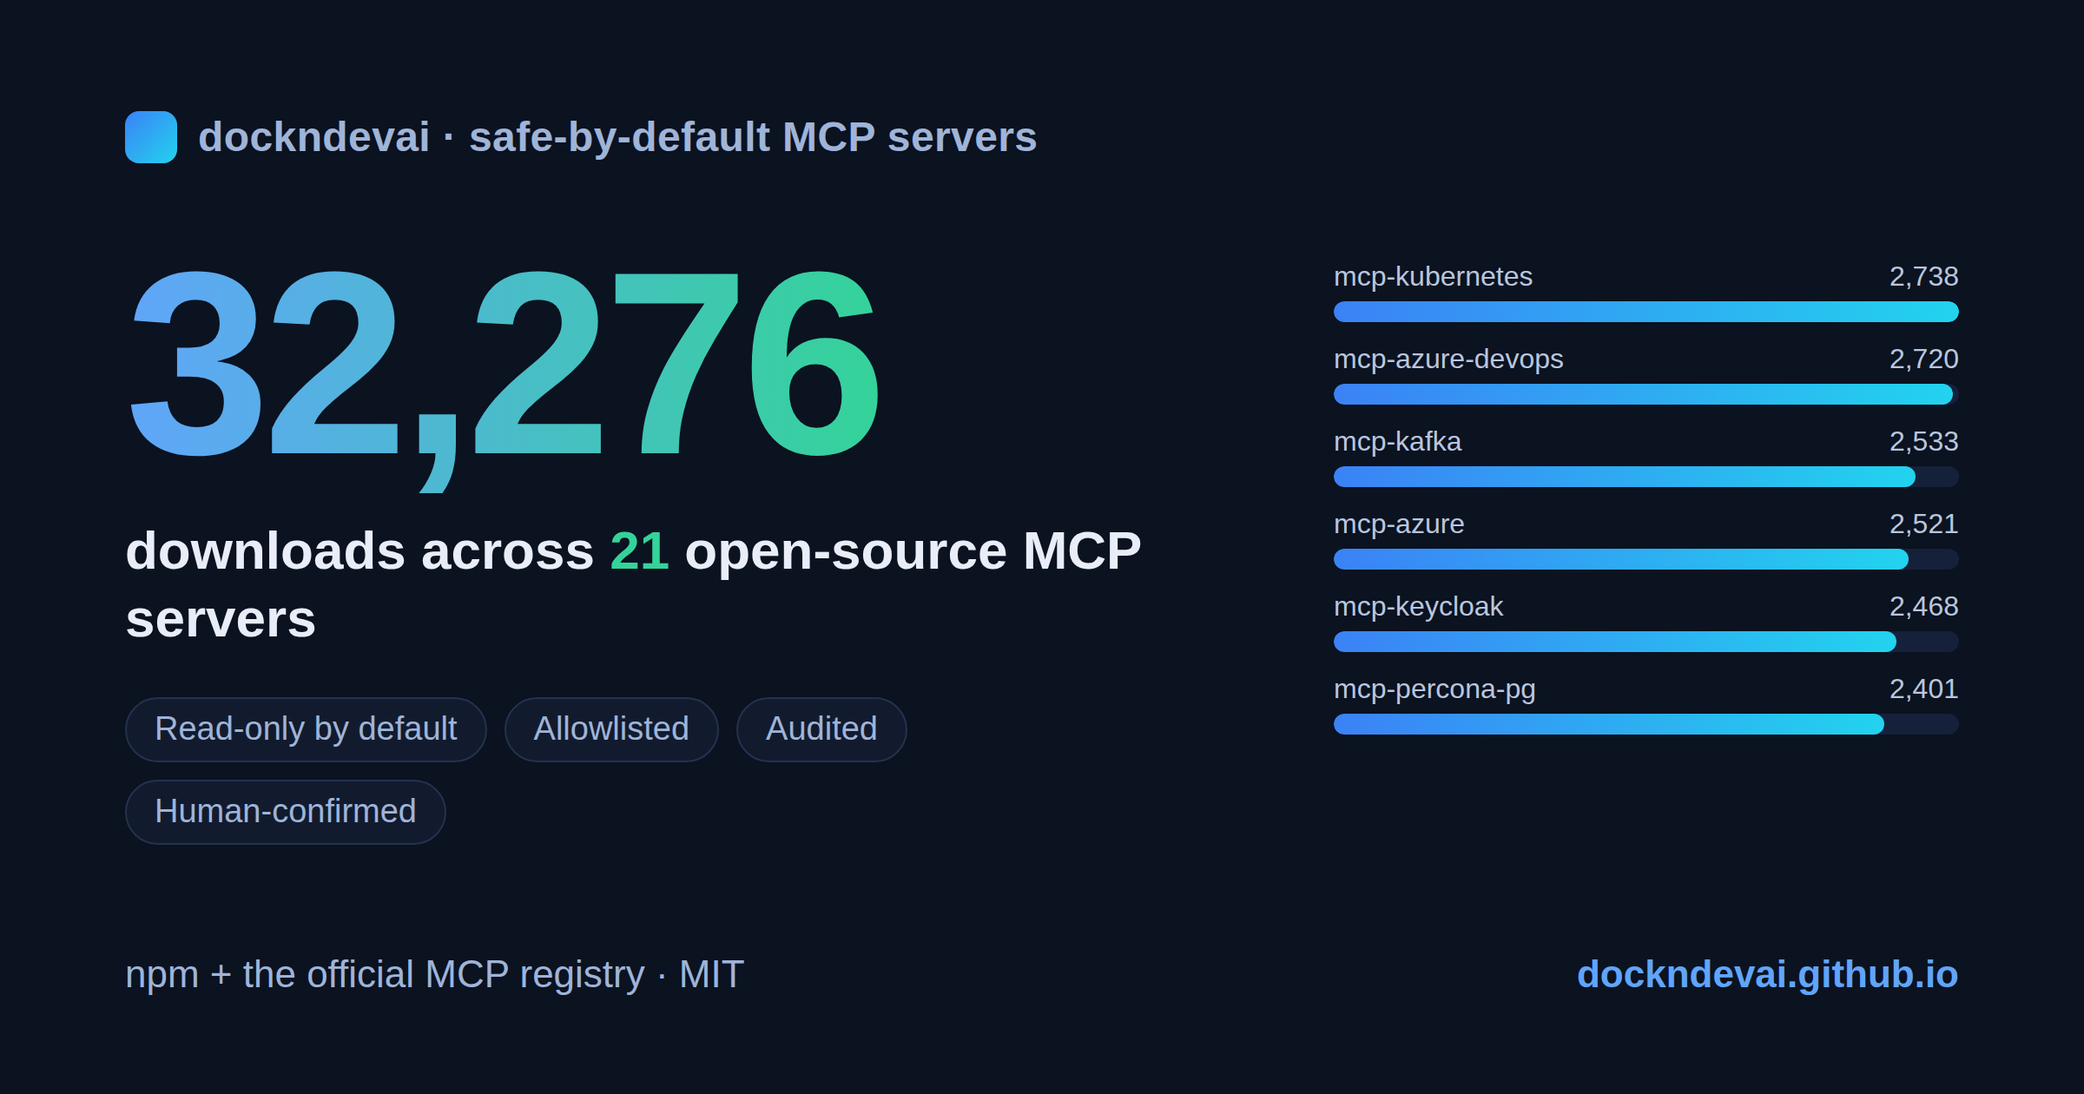
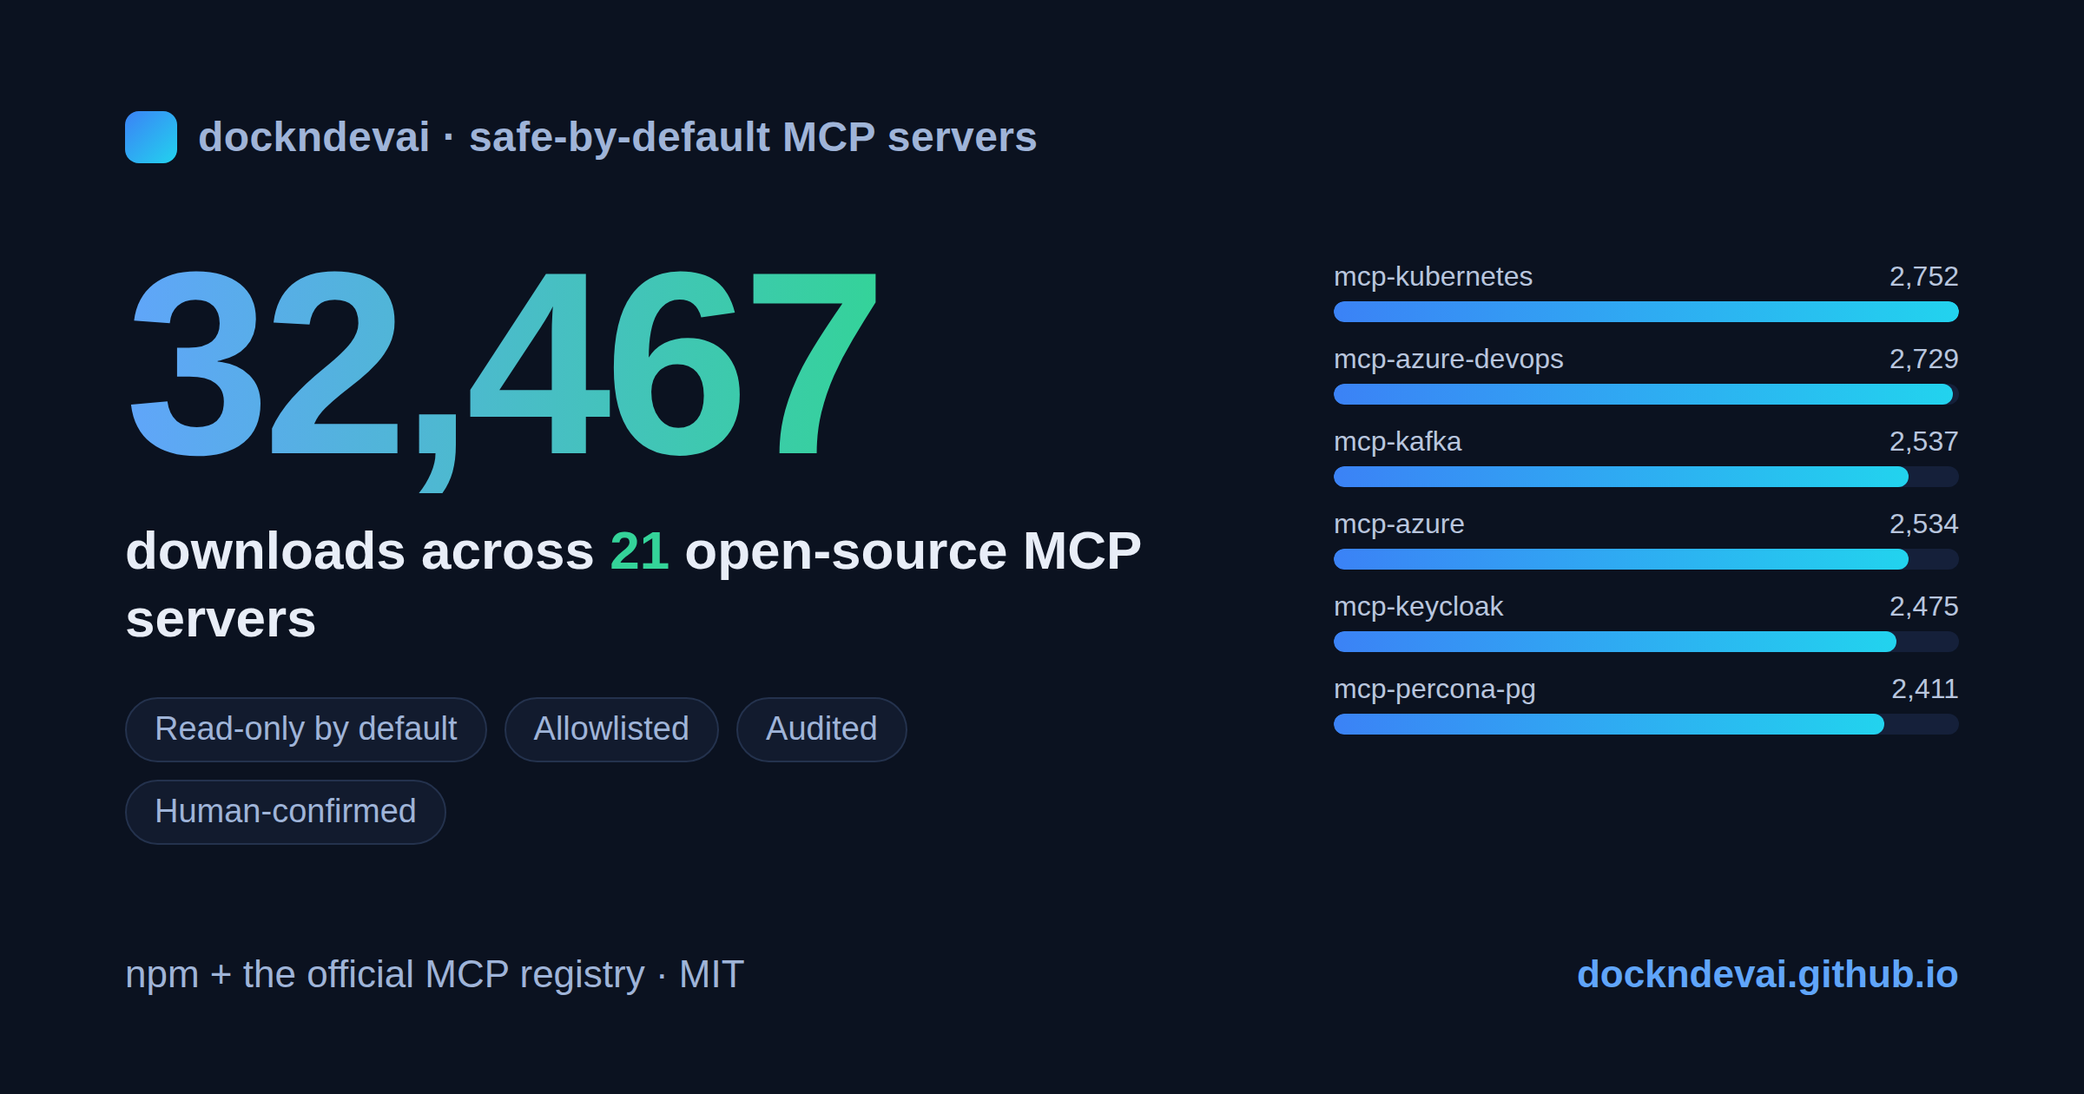
chore: refresh server list + downloads card from live data

Changed region(s): [[0.2188, 0.2476, 0.4375, 0.4333], [0.9062, 0.619, 0.9375, 0.65], [0.9062, 0.4643, 0.9375, 0.4952]]

diff --git a/index.html b/index.html
@@ -509,70 +509,70 @@
           <article class="srv" id="p-mcp-kubernetes">
             <div class="top"><h3><a href="https://github.com/dockndevai/mcp-kubernetes">mcp-kubernetes</a></h3><span class="tag k">TypeScript</span></div>
             <p>MCP server for Kubernetes — multi-cluster ops with security modes (read-only/read-write/admin) and access-control flags.</p>
-            <div class="meta"><span class="stat" title="GitHub stars">&#9733; 3</span><span class="stat" title="npm downloads, last 30 days">&#8595; 713/mo</span></div>
+            <div class="meta"><span class="stat" title="GitHub stars">&#9733; 3</span><span class="stat" title="npm downloads, last 30 days">&#8595; 714/mo</span></div>
             <div class="install"><code>npx -y @dockndevai/mcp-kubernetes</code><button class="copy" data-cmd="npx -y @dockndevai/mcp-kubernetes">Copy</button></div>
             <div class="links"><a href="https://github.com/dockndevai/mcp-kubernetes">GitHub</a><a href="https://www.npmjs.com/package/@dockndevai/mcp-kubernetes">npm</a></div>
           </article>
           <article class="srv" id="p-mcp-azure-devops">
             <div class="top"><h3><a href="https://github.com/dockndevai/mcp-azure-devops">mcp-azure-devops</a></h3><span class="tag k">TypeScript</span></div>
             <p>MCP server for Azure DevOps — boards, repos, pipelines, projects — with governance controls (access modes, project scoping, protected projects, delete gating, typed confirmation).</p>
-            <div class="meta"><span class="stat" title="GitHub stars">&#9733; 1</span><span class="stat" title="npm downloads, last 30 days">&#8595; 652/mo</span></div>
+            <div class="meta"><span class="stat" title="GitHub stars">&#9733; 1</span><span class="stat" title="npm downloads, last 30 days">&#8595; 657/mo</span></div>
             <div class="install"><code>npx -y @dockndevai/mcp-azure-devops</code><button class="copy" data-cmd="npx -y @dockndevai/mcp-azure-devops">Copy</button></div>
             <div class="links"><a href="https://github.com/dockndevai/mcp-azure-devops">GitHub</a><a href="https://www.npmjs.com/package/@dockndevai/mcp-azure-devops">npm</a></div>
           </article>
           <article class="srv" id="p-mcp-kafka">
             <div class="top"><h3><a href="https://github.com/dockndevai/mcp-kafka">mcp-kafka</a></h3><span class="tag k">TypeScript</span></div>
             <p>MCP server for Apache Kafka — monitor &amp; manage clusters, topics, and consumer groups (with lag), with security modes and access-control flags.</p>
-            <div class="meta"><span class="stat" title="GitHub stars">&#9733; 2</span><span class="stat" title="npm downloads, last 30 days">&#8595; 630/mo</span></div>
+            <div class="meta"><span class="stat" title="GitHub stars">&#9733; 2</span><span class="stat" title="npm downloads, last 30 days">&#8595; 623/mo</span></div>
             <div class="install"><code>npx -y @dockndevai/mcp-kafka</code><button class="copy" data-cmd="npx -y @dockndevai/mcp-kafka">Copy</button></div>
             <div class="links"><a href="https://github.com/dockndevai/mcp-kafka">GitHub</a><a href="https://www.npmjs.com/package/@dockndevai/mcp-kafka">npm</a></div>
           </article>
           <article class="srv" id="p-mcp-azure">
             <div class="top"><h3><a href="https://github.com/dockndevai/mcp-azure">mcp-azure</a></h3><span class="tag k">TypeScript</span></div>
             <p>MCP server for Azure (Resource Manager) — inventory, tags, VM power, lifecycle — with governance controls (scoping, protected groups, location allowlist, delete gating, confirmation).</p>
-            <div class="meta"><span class="stat" title="GitHub stars">&#9733; 1</span><span class="stat" title="npm downloads, last 30 days">&#8595; 368/mo</span></div>
+            <div class="meta"><span class="stat" title="GitHub stars">&#9733; 1</span><span class="stat" title="npm downloads, last 30 days">&#8595; 375/mo</span></div>
             <div class="install"><code>npx -y @dockndevai/mcp-azure</code><button class="copy" data-cmd="npx -y @dockndevai/mcp-azure">Copy</button></div>
             <div class="links"><a href="https://github.com/dockndevai/mcp-azure">GitHub</a><a href="https://www.npmjs.com/package/@dockndevai/mcp-azure">npm</a></div>
           </article>
           <article class="srv" id="p-mcp-keycloak">
             <div class="top"><h3><a href="https://github.com/dockndevai/mcp-keycloak">mcp-keycloak</a></h3><span class="tag k">TypeScript</span></div>
             <p>MCP server for Keycloak — multi-realm admin with security modes (read-only/read-write/admin) and access-control flags.</p>
-            <div class="meta"><span class="stat" title="GitHub stars">&#9733; 1</span><span class="stat" title="npm downloads, last 30 days">&#8595; 586/mo</span></div>
+            <div class="meta"><span class="stat" title="GitHub stars">&#9733; 1</span><span class="stat" title="npm downloads, last 30 days">&#8595; 589/mo</span></div>
             <div class="install"><code>npx -y @dockndevai/mcp-keycloak</code><button class="copy" data-cmd="npx -y @dockndevai/mcp-keycloak">Copy</button></div>
             <div class="links"><a href="https://github.com/dockndevai/mcp-keycloak">GitHub</a><a href="https://www.npmjs.com/package/@dockndevai/mcp-keycloak">npm</a></div>
           </article>
           <article class="srv" id="p-mcp-percona-pg">
             <div class="top"><h3><a href="https://github.com/dockndevai/mcp-percona-pg">mcp-percona-pg</a></h3><span class="tag k">TypeScript</span></div>
             <p>MCP server for the Percona Operator for PostgreSQL — manage PostgreSQL + PgBouncer, pooling, backups/PITR, and DR with safe-by-default security flags.</p>
-            <div class="meta"><span class="stat" title="GitHub stars">&#9733; 1</span><span class="stat" title="npm downloads, last 30 days">&#8595; 627/mo</span></div>
+            <div class="meta"><span class="stat" title="GitHub stars">&#9733; 1</span><span class="stat" title="npm downloads, last 30 days">&#8595; 631/mo</span></div>
             <div class="install"><code>npx -y @dockndevai/mcp-percona-pg</code><button class="copy" data-cmd="npx -y @dockndevai/mcp-percona-pg">Copy</button></div>
             <div class="links"><a href="https://github.com/dockndevai/mcp-percona-pg">GitHub</a><a href="https://www.npmjs.com/package/@dockndevai/mcp-percona-pg">npm</a></div>
           </article>
           <article class="srv" id="p-mcp-clickhouse">
             <div class="top"><h3><a href="https://github.com/dockndevai/mcp-clickhouse">mcp-clickhouse</a></h3><span class="tag k">TypeScript</span></div>
             <p>MCP server for ClickHouse — explore, query, and manage with SQL-classification-based security modes and access-control flags.</p>
-            <div class="meta"><span class="stat" title="GitHub stars">&#9733; 3</span><span class="stat" title="npm downloads, last 30 days">&#8595; 395/mo</span></div>
+            <div class="meta"><span class="stat" title="GitHub stars">&#9733; 3</span><span class="stat" title="npm downloads, last 30 days">&#8595; 388/mo</span></div>
             <div class="install"><code>npx -y @dockndevai/mcp-clickhouse</code><button class="copy" data-cmd="npx -y @dockndevai/mcp-clickhouse">Copy</button></div>
             <div class="links"><a href="https://github.com/dockndevai/mcp-clickhouse">GitHub</a><a href="https://www.npmjs.com/package/@dockndevai/mcp-clickhouse">npm</a></div>
           </article>
           <article class="srv" id="p-mcp-debezium">
             <div class="top"><h3><a href="https://github.com/dockndevai/mcp-debezium">mcp-debezium</a></h3><span class="tag k">TypeScript</span></div>
             <p>MCP server for Debezium / Kafka Connect — monitor &amp; manage CDC connectors with security modes and access-control flags.</p>
-            <div class="meta"><span class="stat" title="GitHub stars">&#9733; 1</span><span class="stat" title="npm downloads, last 30 days">&#8595; 327/mo</span></div>
+            <div class="meta"><span class="stat" title="GitHub stars">&#9733; 1</span><span class="stat" title="npm downloads, last 30 days">&#8595; 336/mo</span></div>
             <div class="install"><code>npx -y @dockndevai/mcp-debezium</code><button class="copy" data-cmd="npx -y @dockndevai/mcp-debezium">Copy</button></div>
             <div class="links"><a href="https://github.com/dockndevai/mcp-debezium">GitHub</a><a href="https://www.npmjs.com/package/@dockndevai/mcp-debezium">npm</a></div>
           </article>
           <article class="srv" id="p-mcp-grafana">
             <div class="top"><h3><a href="https://github.com/dockndevai/mcp-grafana">mcp-grafana</a></h3><span class="tag k">TypeScript</span></div>
             <p>MCP server for Grafana — search &amp; edit dashboards, query datasources (Prometheus/Loki/SQL), inspect alerts, with safe-by-default access modes.</p>
-            <div class="meta"><span class="stat" title="GitHub stars">&#9733; 1</span><span class="stat" title="npm downloads, last 30 days">&#8595; 565/mo</span></div>
+            <div class="meta"><span class="stat" title="GitHub stars">&#9733; 1</span><span class="stat" title="npm downloads, last 30 days">&#8595; 561/mo</span></div>
             <div class="install"><code>npx -y @dockndevai/mcp-grafana</code><button class="copy" data-cmd="npx -y @dockndevai/mcp-grafana">Copy</button></div>
             <div class="links"><a href="https://github.com/dockndevai/mcp-grafana">GitHub</a><a href="https://www.npmjs.com/package/@dockndevai/mcp-grafana">npm</a></div>
           </article>
           <article class="srv" id="p-mcp-oci">
             <div class="top"><h3><a href="https://github.com/dockndevai/mcp-oci">mcp-oci</a></h3><span class="tag k">TypeScript</span></div>
             <p>MCP server for Oracle Cloud (OCI) — live resource discovery, dependency mapping, and Terraform generation, with security modes and access-control flags.</p>
-            <div class="meta"><span class="stat" title="GitHub stars">&#9733; 1</span><span class="stat" title="npm downloads, last 30 days">&#8595; 350/mo</span></div>
+            <div class="meta"><span class="stat" title="GitHub stars">&#9733; 1</span><span class="stat" title="npm downloads, last 30 days">&#8595; 366/mo</span></div>
             <div class="install"><code>npx -y @dockndevai/mcp-oci</code><button class="copy" data-cmd="npx -y @dockndevai/mcp-oci">Copy</button></div>
             <div class="links"><a href="https://github.com/dockndevai/mcp-oci">GitHub</a><a href="https://www.npmjs.com/package/@dockndevai/mcp-oci">npm</a></div>
           </article>
@@ -586,63 +586,63 @@
           <article class="srv" id="p-ossian-mcp">
             <div class="top"><h3><a href="https://github.com/dockndevai/ossian-mcp">ossian-mcp</a></h3><span class="tag k">TypeScript</span></div>
             <p>MCP server for Ossian — ask your own documents with citations, and give an agent memory that persists</p>
-            <div class="meta"><span class="stat" title="GitHub stars">&#9733; 2</span><span class="stat" title="npm downloads, last 30 days">&#8595; 224/mo</span></div>
+            <div class="meta"><span class="stat" title="GitHub stars">&#9733; 2</span><span class="stat" title="npm downloads, last 30 days">&#8595; 230/mo</span></div>
             <div class="install"><code>npx -y ossian-mcp</code><button class="copy" data-cmd="npx -y ossian-mcp">Copy</button></div>
             <div class="links"><a href="https://github.com/dockndevai/ossian-mcp">GitHub</a><a href="https://www.npmjs.com/package/ossian-mcp">npm</a></div>
           </article>
           <article class="srv" id="p-mcp-cdp">
             <div class="top"><h3><a href="https://github.com/dockndevai/mcp-cdp">mcp-cdp</a></h3><span class="tag k">TypeScript</span></div>
             <p>Model Context Protocol server that drives an Electron/Chrome app over the DevTools Protocol (CDP) — DOM, console, network, click/type/navigate and gated JS eval — safe by default, cross-OS.</p>
-            <div class="meta"><span class="stat" title="GitHub stars">&#9733; 1</span><span class="stat" title="npm downloads, last 30 days">&#8595; 536/mo</span></div>
+            <div class="meta"><span class="stat" title="GitHub stars">&#9733; 1</span><span class="stat" title="npm downloads, last 30 days">&#8595; 541/mo</span></div>
             <div class="install"><code>npx -y @dockndevai/mcp-cdp</code><button class="copy" data-cmd="npx -y @dockndevai/mcp-cdp">Copy</button></div>
             <div class="links"><a href="https://github.com/dockndevai/mcp-cdp">GitHub</a><a href="https://www.npmjs.com/package/@dockndevai/mcp-cdp">npm</a></div>
           </article>
           <article class="srv" id="p-mcp-mac-control">
             <div class="top"><h3><a href="https://github.com/dockndevai/mcp-mac-control">mcp-mac-control</a></h3><span class="tag k">TypeScript</span></div>
             <p>Full macOS control MCP server — drive a Mac like a human: shell, AppleScript, files, processes, and human-like GUI (click, drag, scroll, type). Full control by default; opt-in safe mode.</p>
-            <div class="meta"><span class="stat" title="GitHub stars">&#9733; 0</span><span class="stat" title="npm downloads, last 30 days">&#8595; 166/mo</span></div>
+            <div class="meta"><span class="stat" title="GitHub stars">&#9733; 0</span><span class="stat" title="npm downloads, last 30 days">&#8595; 170/mo</span></div>
             <div class="install"><code>npx -y @dockndevai/mcp-mac-control</code><button class="copy" data-cmd="npx -y @dockndevai/mcp-mac-control">Copy</button></div>
             <div class="links"><a href="https://github.com/dockndevai/mcp-mac-control">GitHub</a><a href="https://www.npmjs.com/package/@dockndevai/mcp-mac-control">npm</a></div>
           </article>
           <article class="srv" id="p-mcp-macos">
             <div class="top"><h3><a href="https://github.com/dockndevai/mcp-macos">mcp-macos</a></h3><span class="tag k">TypeScript</span></div>
             <p>Safe-by-default MCP server to observe &amp; operate a Mac — files, processes, apps, shell, AppleScript, GUI.</p>
-            <div class="meta"><span class="stat" title="GitHub stars">&#9733; 0</span><span class="stat" title="npm downloads, last 30 days">&#8595; 193/mo</span></div>
+            <div class="meta"><span class="stat" title="GitHub stars">&#9733; 0</span><span class="stat" title="npm downloads, last 30 days">&#8595; 187/mo</span></div>
             <div class="install"><code>npx -y @dockndevai/mcp-macos</code><button class="copy" data-cmd="npx -y @dockndevai/mcp-macos">Copy</button></div>
             <div class="links"><a href="https://github.com/dockndevai/mcp-macos">GitHub</a><a href="https://www.npmjs.com/package/@dockndevai/mcp-macos">npm</a></div>
           </article>
           <article class="srv" id="p-mcp-teams">
             <div class="top"><h3><a href="https://github.com/dockndevai/mcp-teams">mcp-teams</a></h3><span class="tag k">TypeScript</span></div>
             <p>Safe-by-default MCP server for Microsoft Teams (Microsoft Graph) — read teams, channels, chats and messages, and post/reply/send, with browser sign-in.</p>
-            <div class="meta"><span class="stat" title="GitHub stars">&#9733; 0</span><span class="stat" title="npm downloads, last 30 days">&#8595; 252/mo</span></div>
+            <div class="meta"><span class="stat" title="GitHub stars">&#9733; 0</span><span class="stat" title="npm downloads, last 30 days">&#8595; 261/mo</span></div>
             <div class="install"><code>npx -y @dockndevai/mcp-teams</code><button class="copy" data-cmd="npx -y @dockndevai/mcp-teams">Copy</button></div>
             <div class="links"><a href="https://github.com/dockndevai/mcp-teams">GitHub</a><a href="https://www.npmjs.com/package/@dockndevai/mcp-teams">npm</a></div>
           </article>
           <article class="srv" id="p-mcp-openshift">
             <div class="top"><h3><a href="https://github.com/dockndevai/mcp-openshift">mcp-openshift</a></h3><span class="tag k">TypeScript</span></div>
             <p>Safe-by-default MCP server for OpenShift / Kubernetes — projects, pods, logs, deployments, routes and more, with username/password (local IdP) or token auth.</p>
-            <div class="meta"><span class="stat" title="GitHub stars">&#9733; 0</span><span class="stat" title="npm downloads, last 30 days">&#8595; 168/mo</span></div>
+            <div class="meta"><span class="stat" title="GitHub stars">&#9733; 0</span><span class="stat" title="npm downloads, last 30 days">&#8595; 167/mo</span></div>
             <div class="install"><code>npx -y @dockndevai/mcp-openshift</code><button class="copy" data-cmd="npx -y @dockndevai/mcp-openshift">Copy</button></div>
             <div class="links"><a href="https://github.com/dockndevai/mcp-openshift">GitHub</a><a href="https://www.npmjs.com/package/@dockndevai/mcp-openshift">npm</a></div>
           </article>
           <article class="srv" id="p-mcp-github-enterprise">
             <div class="top"><h3><a href="https://github.com/dockndevai/mcp-github-enterprise">mcp-github-enterprise</a></h3><span class="tag k">TypeScript</span></div>
             <p>Safe-by-default MCP server for GitHub Enterprise — orgs, repos, teams, rulesets, security alerts &amp; Actions, with a security-posture baseline and governance controls (read-only by default, org-scoped, audited, human-confirmed).</p>
-            <div class="meta"><span class="stat" title="GitHub stars">&#9733; 0</span><span class="stat" title="npm downloads, last 30 days">&#8595; 624/mo</span></div>
+            <div class="meta"><span class="stat" title="GitHub stars">&#9733; 0</span><span class="stat" title="npm downloads, last 30 days">&#8595; 630/mo</span></div>
             <div class="install"><code>npx -y @dockndevai/mcp-github-enterprise</code><button class="copy" data-cmd="npx -y @dockndevai/mcp-github-enterprise">Copy</button></div>
             <div class="links"><a href="https://github.com/dockndevai/mcp-github-enterprise">GitHub</a><a href="https://www.npmjs.com/package/@dockndevai/mcp-github-enterprise">npm</a></div>
           </article>
           <article class="srv" id="p-mcp-android">
             <div class="top"><h3><a href="https://github.com/dockndevai/mcp-android">mcp-android</a></h3><span class="tag k">TypeScript</span></div>
             <p>MCP server to control an Android device over ADB — screenshots, taps, typing, app launch, alarms, notifications — safe-by-default with access modes and gated destructive ops.</p>
-            <div class="meta"><span class="stat" title="GitHub stars">&#9733; 0</span><span class="stat" title="npm downloads, last 30 days">&#8595; 221/mo</span></div>
+            <div class="meta"><span class="stat" title="GitHub stars">&#9733; 0</span><span class="stat" title="npm downloads, last 30 days">&#8595; 218/mo</span></div>
             <div class="install"><code>npx -y @dockndevai/mcp-android</code><button class="copy" data-cmd="npx -y @dockndevai/mcp-android">Copy</button></div>
             <div class="links"><a href="https://github.com/dockndevai/mcp-android">GitHub</a><a href="https://www.npmjs.com/package/@dockndevai/mcp-android">npm</a></div>
           </article>
           <article class="srv" id="p-mcp-ios">
             <div class="top"><h3><a href="https://github.com/dockndevai/mcp-ios">mcp-ios</a></h3><span class="tag k">TypeScript</span></div>
             <p>MCP server to drive a physical iPhone/iPad over Appium + WebDriverAgent (XCUITest) — safe-by-default with access modes and gated destructive ops.</p>
-            <div class="meta"><span class="stat" title="GitHub stars">&#9733; 1</span><span class="stat" title="npm downloads, last 30 days">&#8595; 209/mo</span></div>
+            <div class="meta"><span class="stat" title="GitHub stars">&#9733; 1</span><span class="stat" title="npm downloads, last 30 days">&#8595; 204/mo</span></div>
             <div class="install"><code>npx -y @dockndevai/mcp-ios</code><button class="copy" data-cmd="npx -y @dockndevai/mcp-ios">Copy</button></div>
             <div class="links"><a href="https://github.com/dockndevai/mcp-ios">GitHub</a><a href="https://www.npmjs.com/package/@dockndevai/mcp-ios">npm</a></div>
           </article>
